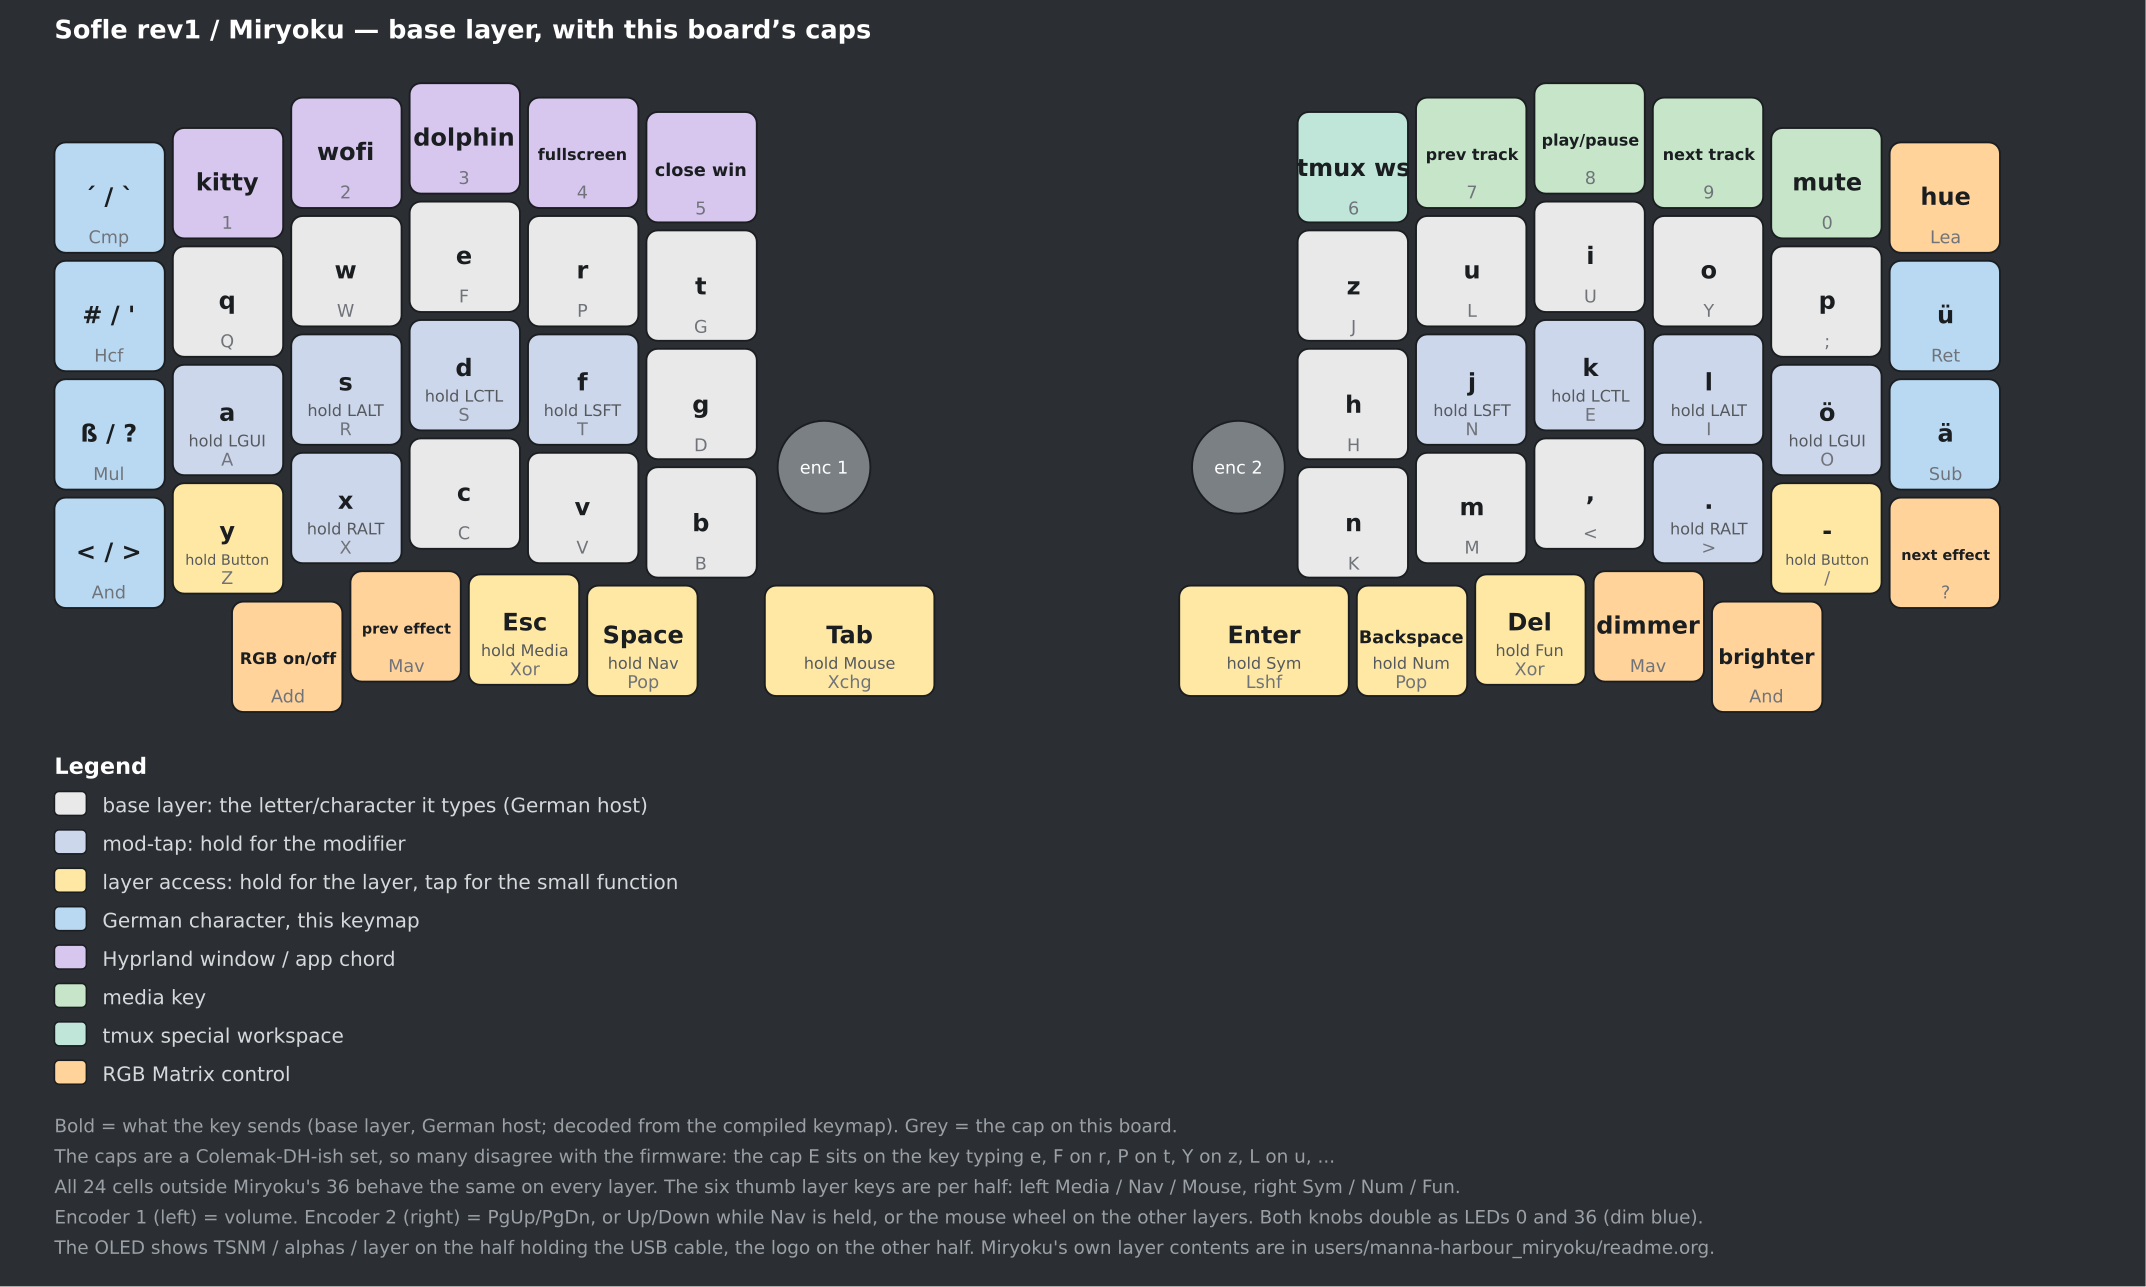
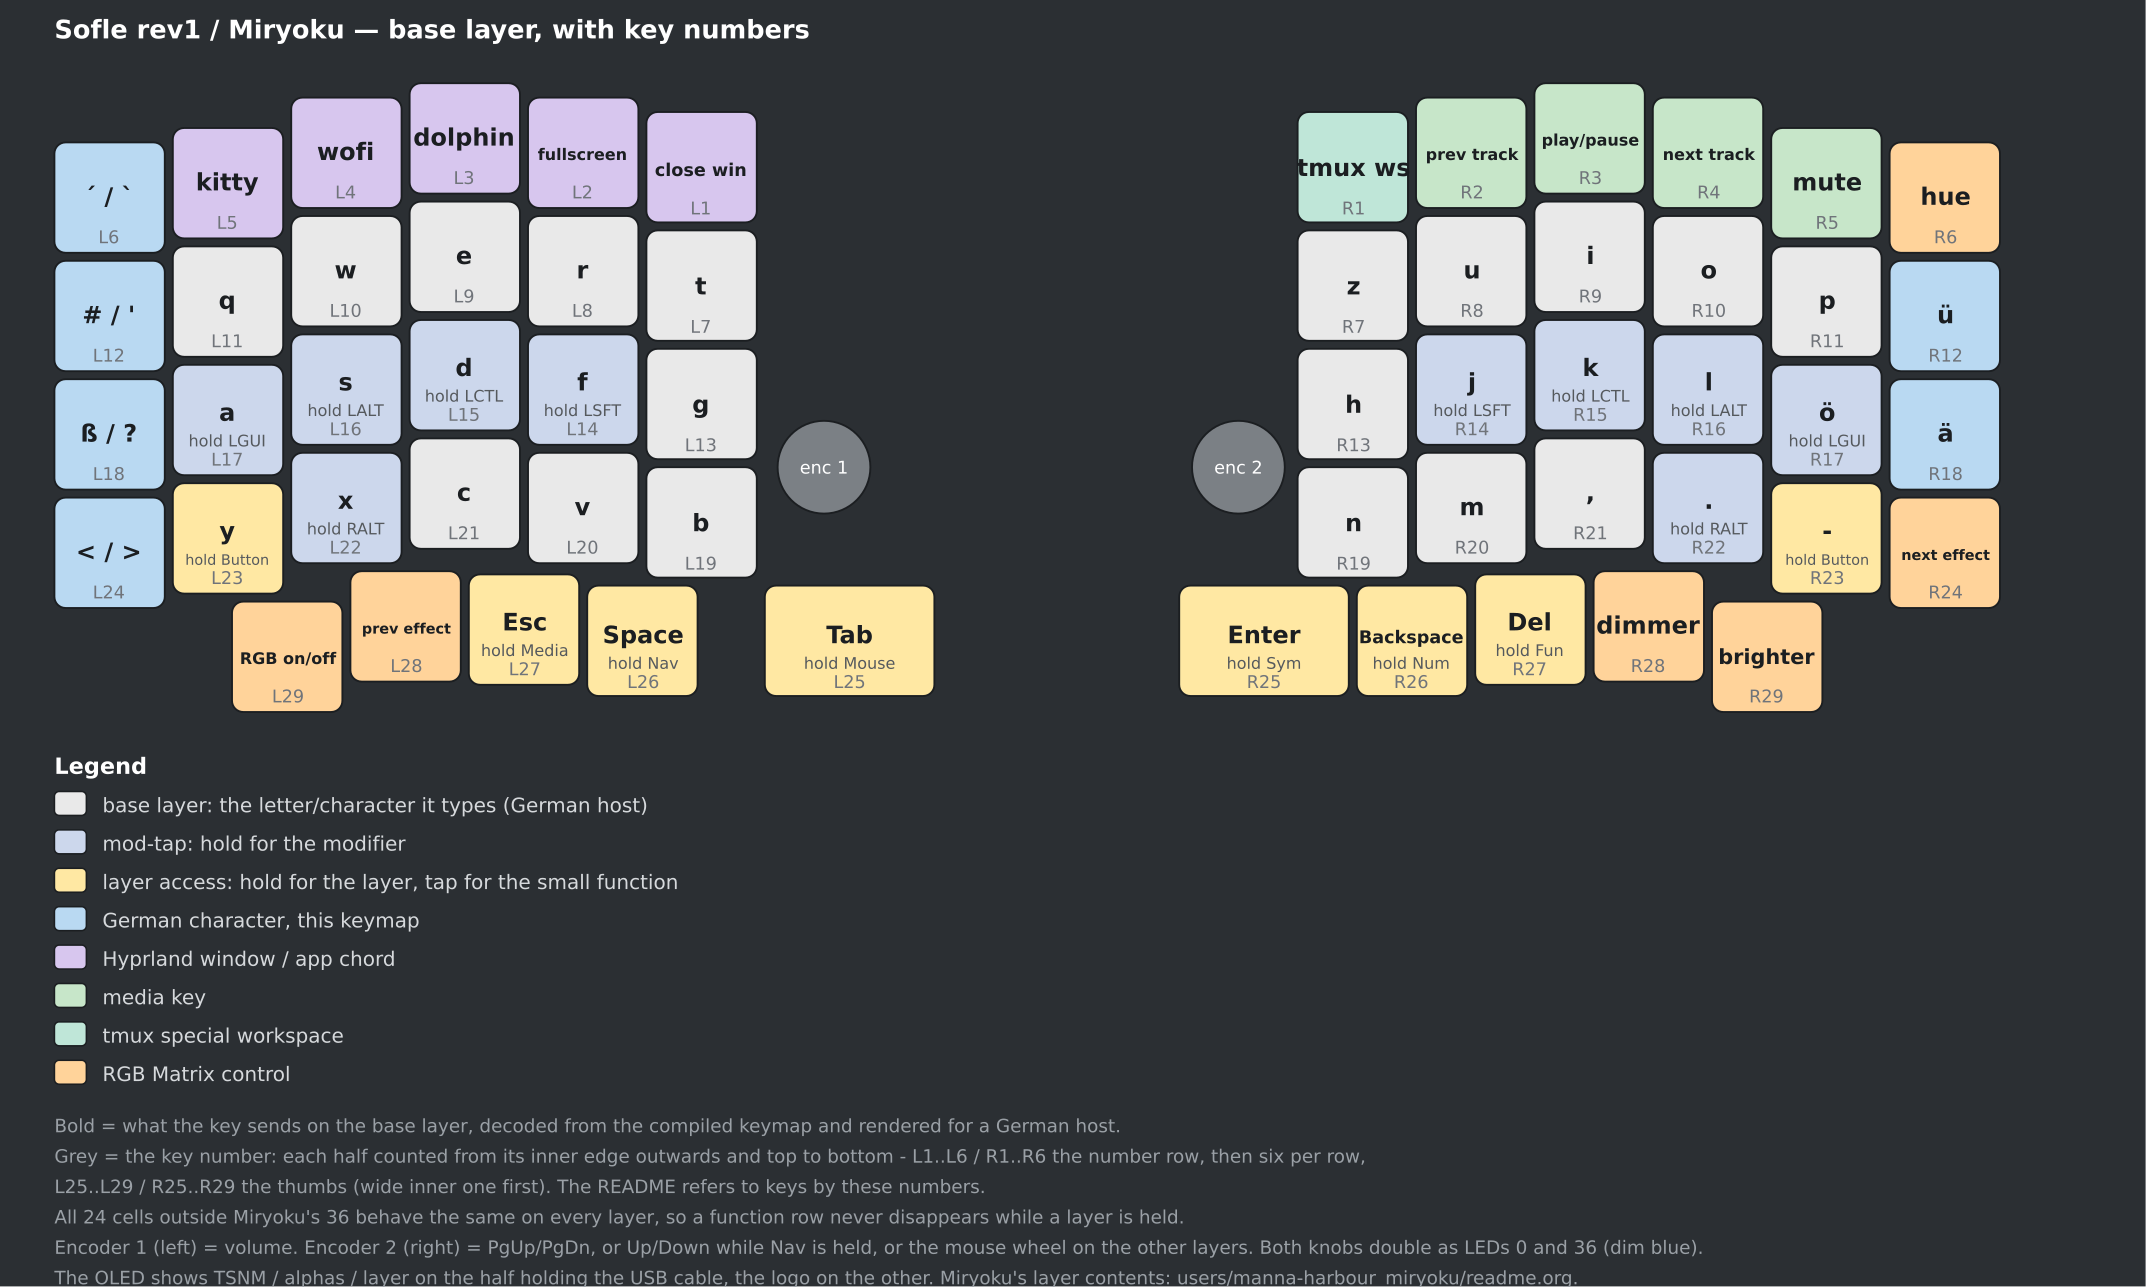
docs: number the keys instead of using cap legends
The caps in the photo were a different set from the one on the board, so the
schematic shows no cap legend at all: every key is labelled with a number instead,
each half counted from its inner edge outward and top to bottom - L1..L6 / R1..R6
the number row, six per row after that, L25..L29 / R25..R29 the thumbs with the
wide inner one first. The README's tables use those numbers, so they stay true
whatever caps are fitted.

Verified: rendered the SVG and read the PNG back, then cross-checked every key
number referenced in the README against the compiled keymap - L1 = S(LGUI(Q))
close window, L6 = KC_EQL, L23/R23 = LT(Button), L24 = KC_NUBS, L25 = LT(Mouse),
L28 = RM_PREV, L29 = RM_TOGG, R1 = LAlt+Space, R6 = RM_HUEU, R24 = RM_NEXT,
R28 = RM_VALD, R29 = RM_VALU - all 13 match.

diff --git a/README.md b/README.md
@@ -117,7 +117,12 @@ Never plug or unplug the TRRS cable while USB is connected. The bootloader is
 ![Sofle rev1 / Miryoku layout with this board's caps](docs/sofle-layout.png)
 
 Every key: bold = what it sends (base layer, German host, decoded from the
-*compiled* keymap, tap-hold layers included), grey = the cap that is on the board.
+*compiled* keymap, tap-hold layers included); grey = the **key number**:
+each half counted from its inner edge outward and top to bottom — `L1`–`L6` /
+`R1`–`R6` the number row, six per row after that, `L25`–`L29` / `R25`–`R29` the
+thumbs (the wide inner one first). The tables below refer to keys by these
+numbers, so any cap legends on the board are irrelevant to them.
+
 Regenerate after a keymap change with:
 
 ```sh
@@ -125,24 +130,21 @@ python3 ~/gen_layout_svg.py docs/sofle-layout.svg
 rsvg-convert -z 1.6 docs/sofle-layout.svg -o docs/sofle-layout.png
 ```
 
-The caps are a Colemak-DH-ish set while the firmware runs QWERTY alphas (see
-below), so the two disagree in places — the schematic is the reliable reference.
-
 ### Layers
 
 Miryoku's ten layers, unchanged except for the German substitutions in
 `users/manna-harbour_miryoku/custom_config.h`. Reached by holding a thumb (tap =
 the small function):
 
-| hold | cap | tap |
+| hold | key | tap |
 |---|---|---|
-| Media | `Xor` (left, outer Miryoku thumb) | Esc |
-| Nav | `Pop` (left, middle) | Space |
-| Mouse | `Xchg` (left, inner wide) | Tab |
-| Sym | `Lshf` (right, inner wide) | Enter |
-| Num | `Pop` (right, middle) | Backspace |
-| Fun | `Xor` (right, outer) | Delete |
-| Button | `Z` (left) and `/` (right) — the bottom-row corner keys | those keys' output |
+| Media | `L27` (left, outer Miryoku thumb) | Esc |
+| Nav | `L26` (left, middle) | Space |
+| Mouse | `L25` (left, inner, 1.5u) | Tab |
+| Sym | `R25` (right, inner, 1.5u) | Enter |
+| Num | `R26` (right, middle) | Backspace |
+| Fun | `R27` (right, outer) | Delete |
+| Button | `L23` and `R23` — in the bottom row, one key in from the outer column | that key's output |
 
 Layer contents, options and Miryoku's own diagrams are in
 `users/manna-harbour_miryoku/readme.org`.
@@ -152,22 +154,21 @@ Layer contents, options and Miryoku's own diagrams are in
 All of them live in `LAYOUT_miryoku` in the keymap's `config.h` and behave the
 same on **every** layer, so the numbers stay put while a layer is held.
 
-| key (cap) | sends | notes |
-|---|---|---|
-| `Cmp`, left column top | `KC_EQL` | `´`, `Shift` = `` ` `` |
-| `Hcf`, left column | `KC_NUHS` | `#`, `Shift` = `'` |
-| `Mul`, left column | `KC_MINS` | `ß`, `Shift` = `?` |
-| `And`, left column bottom | `KC_NUBS` | `<`, `Shift` = `>` |
-| `1`–`4` in the left number row | `LGUI` + `Q`/`R`/`E`/`F` | kitty, wofi, dolphin, fullscreen |
-| `5` in the left number row | `LGUI` + `Shift` + `Q` | close window |
-| `6` (right number row, innermost) | `LAlt` + `Space` | tmux special workspace |
-| `7` `8` `9` `0` (right number row) | media | prev track, play/pause, next track, mute |
-| `Ret`, `Sub` (right outer column) | `KC_LBRC` / `KC_QUOT` | `ü`, `ä` |
-| `Add` (outermost left thumb) | `RM_TOGG` | RGB Matrix on/off |
-| `Mav` (left thumb, next one in) | `RM_PREV` | previous RGB effect |
-| `?` (bottom-right outer key) | `RM_NEXT` | next RGB effect (cycles eleven modes) |
-| `Lea` (outermost right number row) | `RM_HUEU` | hue, wraps |
-| `Mav`, `And` (the two outer right thumbs) | `RM_VALD`, `RM_VALU` | dimmer / brighter; also dims the blue accents |
+| key | position | sends | notes |
+|---|---|---|---|
+| `L6` | left column, number row | `KC_EQL` | `´`, `Shift` = `` ` `` |
+| `L12` | left column, Q row | `KC_NUHS` | `#`, `Shift` = `'` |
+| `L18` | left column, A row | `KC_MINS` | `ß`, `Shift` = `?` |
+| `L24` | left column, Z row | `KC_NUBS` | `<`, `Shift` = `>` |
+| `L1`–`L5` | left number row | `LGUI` + `Q`/`R`/`E`/`F`, `LGUI`+`Shift`+`Q` | kitty, wofi, dolphin, fullscreen, close window |
+| `R1` | right number row, inner | `LAlt` + `Space` | tmux special workspace |
+| `R2`–`R5` | right number row | media | prev track, play/pause, next track, mute |
+| `R12`, `R18` | right column, Q + A rows | `KC_LBRC` / `KC_QUOT` | `ü`, `ä` |
+| `L29` | outermost left thumb | `RM_TOGG` | RGB Matrix on/off |
+| `L28` | left thumb, next one in | `RM_PREV` | previous RGB effect |
+| `R24` | bottom-right outer key | `RM_NEXT` | next RGB effect (cycles eleven modes) |
+| `R6` | outermost right number row | `RM_HUEU` | hue, wraps |
+| `R29`, `R28` | the two outer right thumbs | `RM_VALU`, `RM_VALD` | brighter / dimmer; also dims the blue accents |
 
 The `ö` cell is Miryoku's own (substituted in `custom_config.h`), and `ß` also
 stays where Miryoku keeps it, on the Num layer. The four spare cells Miryoku
@@ -189,15 +190,10 @@ Firmware size is **28614/28672 bytes** (58 B free) and RAM 2036/2560. Adding an
 effect costs 26–290 B depending on what code it shares, so measure first —
 `~/effect-costs.txt` has every candidate's measured cost.
 
-### Caps, alphas, options
+### Alphas and options
 
-The caps are a Colemak-DH-ish set, and the outer columns carry assembly-flavoured
-mnemonics (`Cmp`, `Hcf`, `Mul`, `And`, `Add`, `Mav`, `Xor`, `Pop`, `Xchg`, `Lea`,
-`Ret`, `Sub`, `Lshf`) with a few coloured corner accents. They therefore disagree
-with the firmware: the key that types `e` wears the cap `F`, the one that types
-`r` wears `P`, `z` wears `Y`, `u` wears `L`, and so on. The schematic above is the
-reference; the grey line under each key is exactly what to re-check if the board
-is ever re-capped.
+The schematic and every table here identify keys by **number**, never by cap
+legend, so whatever is on the board stays consistent with this document.
 
 Alphas are **QWERTY** by default (`MIRYOKU_ALPHAS = QWERTY` in the keymap's
 `rules.mk`, so local builds and CI agree). That is deliberate even for a German
